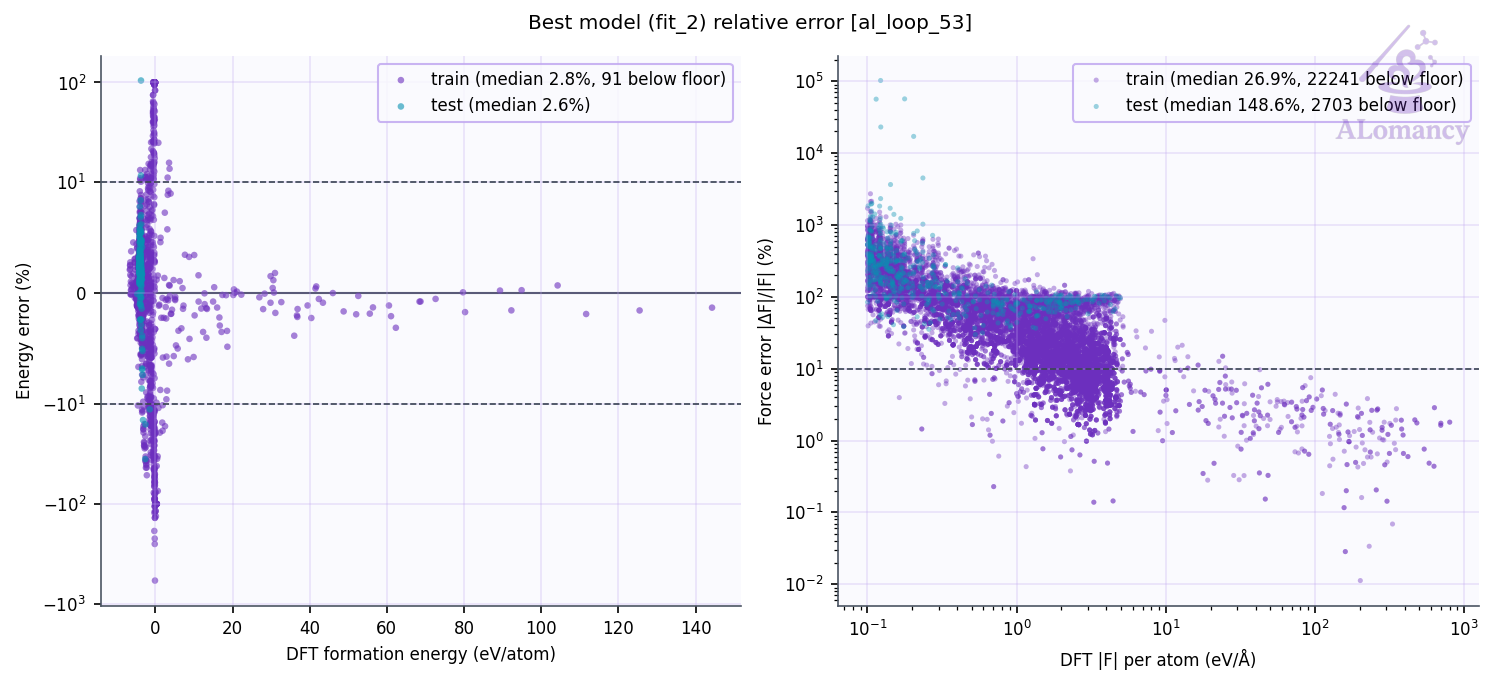
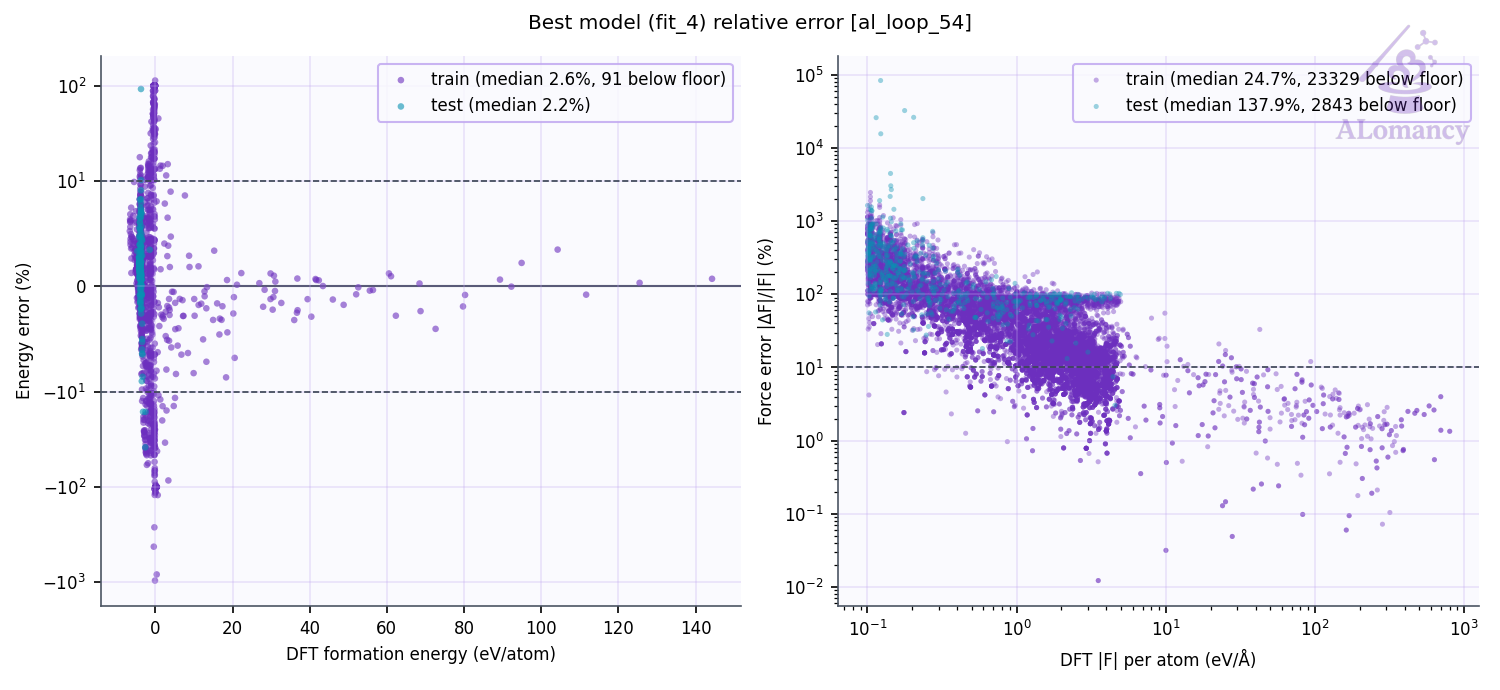
update yun_an

diff --git a/alomancy/yun_an/report/report.md b/alomancy/yun_an/report/report.md
@@ -1,28 +1,29 @@
-# ALomancy report: al_loop_53
+# ALomancy report: al_loop_54
 
-Workflow `committee_uncertainty` · trainer `mace` · generator `md` · evaluator `qe` · generated 2026-11-11T19:04:03
+Workflow `committee_uncertainty` · trainer `mace` · generator `md` · evaluator `qe` · generated 2026-11-13T20:52:00
 
-**Status:** ✖ 2 errors · ⚠ 2 warnings · 41 warning(s) logged
+**Status:** ✖ 2 errors · ⚠ 2 warnings · 💡 1 info · 33 warning(s) logged
 
 ## Headline
 
-| | loop 52 | loop 53 | change |
+| | loop 53 | loop 54 | change |
 |---|---:|---:|---:|
-| Best model test force MAE (eV/Å) | 0.284 | 0.299 | +5% |
-| Best model test energy MAE (meV/atom) | 126 | 145 | +15% |
-| Training structures | 2.51e+03 | 2.59e+03 | +3% |
-| Test structures | 162 | 169 | +4% |
-| New structures this loop | 62 | 60 | -3% |
-| Warnings / errors logged | 18 | 41 | +128% |
+| Best model test force MAE (eV/Å) | 0.299 | 0.285 | -5% |
+| Best model test energy MAE (meV/atom) | 145 | 135 | -7% |
+| Training structures | 2.59e+03 | 2.68e+03 | +3% |
+| Test structures | 169 | 180 | +7% |
+| New structures this loop | 60 | 28 | -53% |
+| Warnings / errors logged | 41 | 33 | -20% |
 
-Best model: fit_2 of 5 (chosen on the `valid` split).
+Best model: fit_4 of 5 (chosen on the `valid` split).
 
 ## Issues & suggestions
 
-- ✖ **remote_jobs_failed**: 37/141 remote jobs (26%) failed (30) or died (7). Check the job logs (results/alomancy.log has each failure's traceback); jobs killed by the scheduler usually need a longer max_time for that phase, or a partition with more memory.
-- ✖ **dft_partial_failure**: 33/100 structures sent to DFT (33%) came back without a result. Check the DFT output in results/<loop>/high_accuracy_evaluation; raise high_accuracy_evaluation.max_time / max_go_time if jobs timed out.
-- ⚠ **go_not_converged**: 11/67 geometry optimisations (16%) stopped at the step budget (200 steps) before reaching the force ceiling. Raise high_accuracy_evaluation.max_num_of_relax_steps, or raise high_accuracy_evaluation.force_ceiling (now 0.05 eV/Å) so they stop earlier. Non-converged structures are still kept as training data.
-- ⚠ **short_bond_excluded**: 4839/8214 structures (59%) were dropped for a bond shorter than 0.5 Å. The model is driving MD into collisions: lower md_kwargs.temperature or md_kwargs.timestep_fs, or add more short-range initialization data (dimers/trimers).
+- ✖ **remote_jobs_failed**: 29/141 remote jobs (21%) failed (23) or died (6). Check the job logs (results/alomancy.log has each failure's traceback); jobs killed by the scheduler usually need a longer max_time for that phase, or a partition with more memory.
+- ✖ **dft_partial_failure**: 23/100 structures sent to DFT (23%) came back without a result. Check the DFT output in results/<loop>/high_accuracy_evaluation; raise high_accuracy_evaluation.max_time / max_go_time if jobs timed out.
+- ⚠ **go_not_converged**: 9/77 geometry optimisations (12%) stopped at the step budget (200 steps) before reaching the force ceiling. Raise high_accuracy_evaluation.max_num_of_relax_steps, or raise high_accuracy_evaluation.force_ceiling (now 0.05 eV/Å) so they stop earlier. Non-converged structures are still kept as training data.
+- ⚠ **short_bond_excluded**: 3610/7852 structures (46%) were dropped for a bond shorter than 0.5 Å. The model is driving MD into collisions: lower md_kwargs.temperature or md_kwargs.timestep_fs, or add more short-range initialization data (dimers/trimers).
+- 💡 **queue_dominated**: training_plots spent 58% of its time (5.5 h) queued. Raise max_num_of_concurrent_jobs in the HPC profile or use a less busy partition.
 
 ## Trends
 
@@ -46,6 +47,7 @@ Best model: fit_2 of 5 (chosen on the `valid` split).
 | 51 | 0.341 | 2409 | 92 | 92/100 | 85% | 0 | 17 |
 | 52 | 0.284 | 2512 | 62 | 94/100 | 100% | 0 | 18 |
 | 53 | 0.299 | 2586 | 60 | 67/100 | 84% | 0 | 41 |
+| 54 | 0.285 | 2675 | 28 | 77/100 | 88% | 0 | 33 |
 
 ![Best-model MAE per loop](plots/training_al_loop_mae_plot.png)
 
@@ -55,7 +57,7 @@ Best model: fit_2 of 5 (chosen on the `valid` split).
 
 ![Best model parity](plots/best_model_parity.png)
 
-Median relative error: train energy 2.8%, force 26.9%; test energy 2.6%, force 148.6%.
+Median relative error: train energy 2.6%, force 24.7%; test energy 2.2%, force 137.9%.
 Energies with |formation energy| < 0.05 eV/atom and atoms with |F| < 0.1 eV/Å are left out; force error is |ΔF|/|F| per atom.
 
 ![Best model percentage error](plots/best_model_percent_error.png)
@@ -65,17 +67,17 @@ Energies with |formation energy| < 0.05 eV/atom and atoms with |F| < 0.1 eV/Å a
 | config_type | Train | Test | Excluded: redundant | Excluded: quality filter | total |
 |---|---:|---:|---:|---:|---:|
 | IsolatedAtom | 5 | 0 | 0 | 0 | 5 |
-| high_sd | 1185 | 153 | 28 | 876 | 2242 |
+| high_sd | 1274 | 164 | 28 | 930 | 2396 |
 | init_MP | 69 | 4 | 0 | 0 | 73 |
 | init_amorphous | 67 | 12 | 8 | 0 | 87 |
 | init_dimer | 299 | 0 | 0 | 0 | 299 |
 | init_stretch_compress | 390 | 0 | 0 | 398 | 788 |
 | init_trimer | 571 | 0 | 0 | 0 | 571 |
-| **all** | **2586** | **169** | **36** | **1274** | **4065** |
+| **all** | **2675** | **180** | **36** | **1328** | **4219** |
 
-- Redundancy removal: 36 structure(s) flagged in total, 0 of this loop's 60 new.
-- DFT geometry-optimisation starting frames: 74 stored this loop, 21 used (the rest excluded by the train/test filters or redundancy removal).
-- Quality filters: high_force: 1272, formation_energy: 373.
+- Redundancy removal: 36 structure(s) flagged in total, 0 of this loop's 28 new.
+- DFT geometry-optimisation starting frames: 126 stored this loop, 72 used (the rest excluded by the train/test filters or redundancy removal).
+- Quality filters: high_force: 1326, formation_energy: 382.
 
 ![Training set composition](plots/training_set_composition.png)
 
@@ -83,17 +85,17 @@ Energies with |formation energy| < 0.05 eV/atom and atoms with |F| < 0.1 eV/Å a
 
 Redundancy removal flags near-duplicate training structures, so the model isn't trained on many copies of the same geometry. Each structure is described by `char_vec_128`: all of its interatomic distances, sorted and resampled to 128 values (`global_descriptor/atomic_distance_descriptor.make_char_vec`). Two structures count as duplicates when the Euclidean distance between their descriptors is below a tolerance: in database order, each structure still in the training set is kept unless it is within the tolerance of one already kept. The plot sweeps that tolerance and counts how many structures are kept at each value. **We are looking for plateaus** (shaded): ranges where the count doesn't change, so the result doesn't depend on the exact tolerance. The orange line (right axis) is the number of structures removed between consecutive tolerance steps, the gradient of the count: zero on a plateau. The start of the lowest plateau at least `general.redundancy_kwargs.min_plateau_width` of the swept range wide is used (dashed line). Nothing is flagged when no plateau qualifies, or when it would flag more than `max_flagged_fraction` of the structures; `general.redundancy_kwargs.tolerance` sets the tolerance directly.
 
-- This loop: 1,357 structures probed, tolerance 0.0398, 36 flagged as duplicates (8 plateau(s) found).
+- This loop: 1,446 structures probed, tolerance 0.0398, 36 flagged as duplicates (7 plateau(s) found).
 
 ![Redundancy tolerance probe](plots/redundancy_tolerance_probe.png)
 
 ## DFT
 
-- Structures: 67 returned of 100 submitted (67 relaxed, 0 single point).
-- Geometry optimisation: 56/67 reached the force ceiling (0.05 eV/Å); steps mean 144.0, median 142, max 200 of 200 allowed.
-- Average DFT time per relaxation: 339.1 min (median 324.8, max 581.8; 67 structures).
-- Largest per-atom force after DFT: median 0.05, max 0.70 eV/Å.
-- DFT phase wall-clock: 10.2 h (mean queue time 22 min).
+- Structures: 77 returned of 100 submitted (77 relaxed, 0 single point).
+- Geometry optimisation: 68/77 reached the force ceiling (0.05 eV/Å); steps mean 132.4, median 135, max 200 of 200 allowed.
+- Average DFT time per relaxation: 356.1 min (median 361.0, max 578.1; 77 structures).
+- Largest per-atom force after DFT: median 0.05, max 0.23 eV/Å.
+- DFT phase wall-clock: 26.3 h (mean queue time 553 min).
 
 **Structures evaluated with DFT this loop (final geometries)**
 
@@ -101,14 +103,14 @@ Redundancy removal flags near-duplicate training structures, so the model isn't 
 
 ## MLIP training: mace
 
-- Best fit (fit_2) trained for 299 epochs, stage two from epoch 240; weights kept from epoch 289.
+- Best fit (fit_4) trained for 299 epochs, stage two from epoch 240; weights kept from epoch 252.
 
 ![Best model training curve](plots/best_model_training_curve.png)
 
 ## Structure generation: MD
 
 - Runs: 30 (30 completed, 1 seed(s) replaced)
-- Frames: 7729 recorded, 3060 physical (no bond < 0.5 Å, volume ≤ 3 x the seed's; 485 frame(s) cut after a run expanded past it, seed frames left out), 1000 picked as candidates, spread over each run
+- Frames: 7263 recorded, 3686 physical (no bond < 0.5 Å, volume ≤ 3 x the seed's; 381 frame(s) cut after a run expanded past it, seed frames left out), 1000 picked as candidates, spread over each run
 - Ensemble npt, T = 300 K, timestep 0.1 fs
 
 ![MD frames per run](plots/md_frames_per_run.png)
@@ -123,7 +125,7 @@ Redundancy removal flags near-duplicate training structures, so the model isn't 
 
 ## Selection: committee uncertainty
 
-- 315 candidates scored; 100 selected (32 %; max force std dev ≥ 0.289 eV/Å).
+- 556 candidates scored; 100 selected (18 %; max force std dev ≥ 0.833 eV/Å).
 
 ![Committee force std dev](plots/committee_force_std_dev.png)
 
@@ -132,8 +134,8 @@ Redundancy removal flags near-duplicate training structures, so the model isn't 
 | event | meaning | count |
 |---|---|---:|
 | `dft_summary` | DFT batch summary | 1 |
-| `job_died` | remote job died (killed / lost) | 7 |
-| `job_failed` | remote job failed | 30 |
+| `job_died` | remote job died (killed / lost) | 6 |
+| `job_failed` | remote job failed | 23 |
 | `jobs_started` | remote jobs started | 5 |
 | `md_summary` | MD summary | 1 |
 | `md_volume_expanded` | MD runs cut after expanding past max_volume_ratio | 1 |
